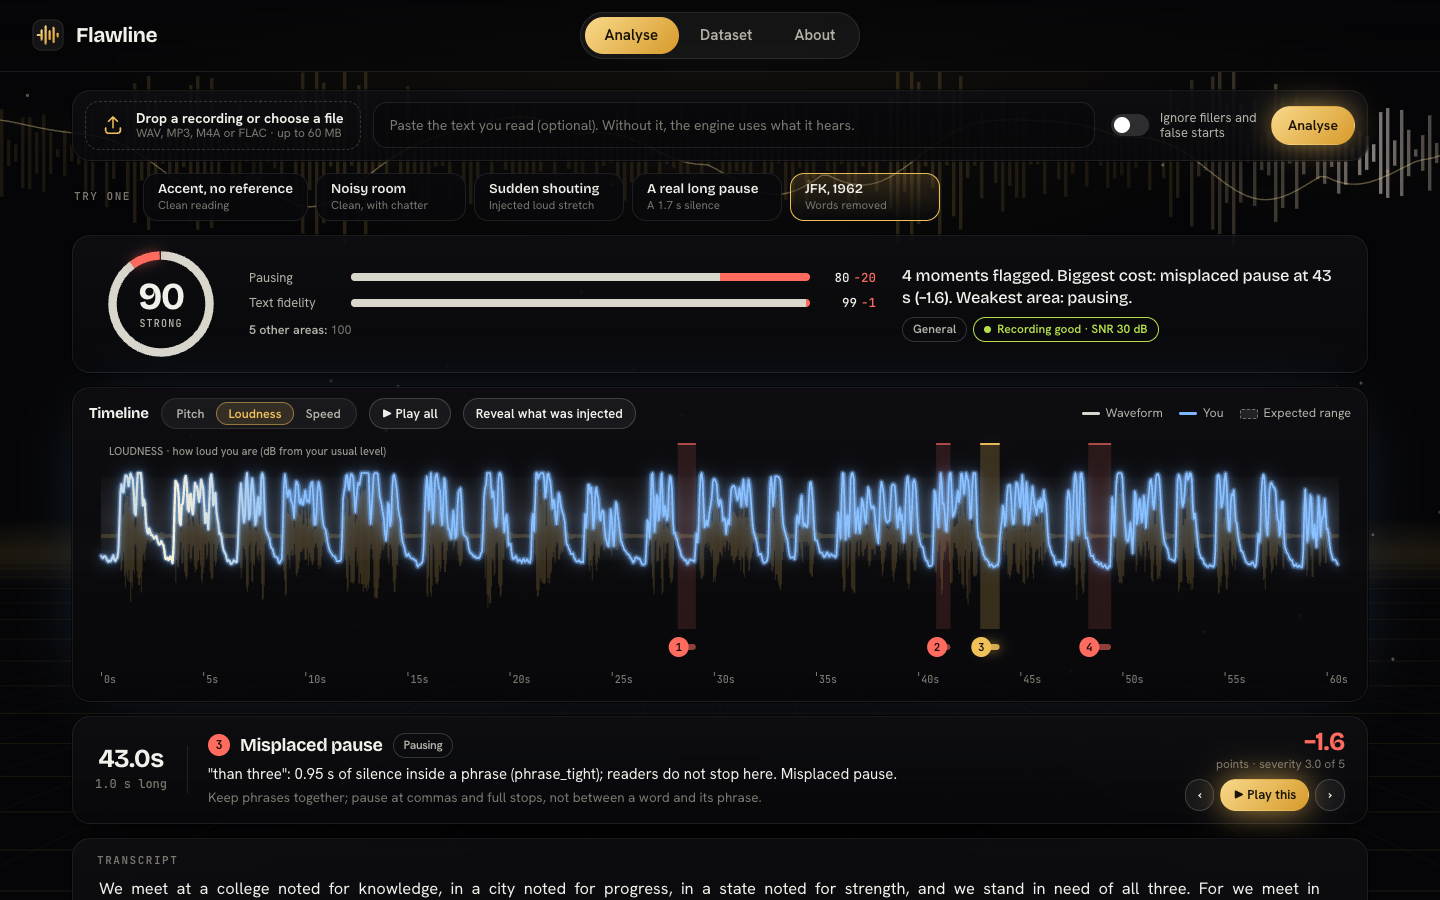
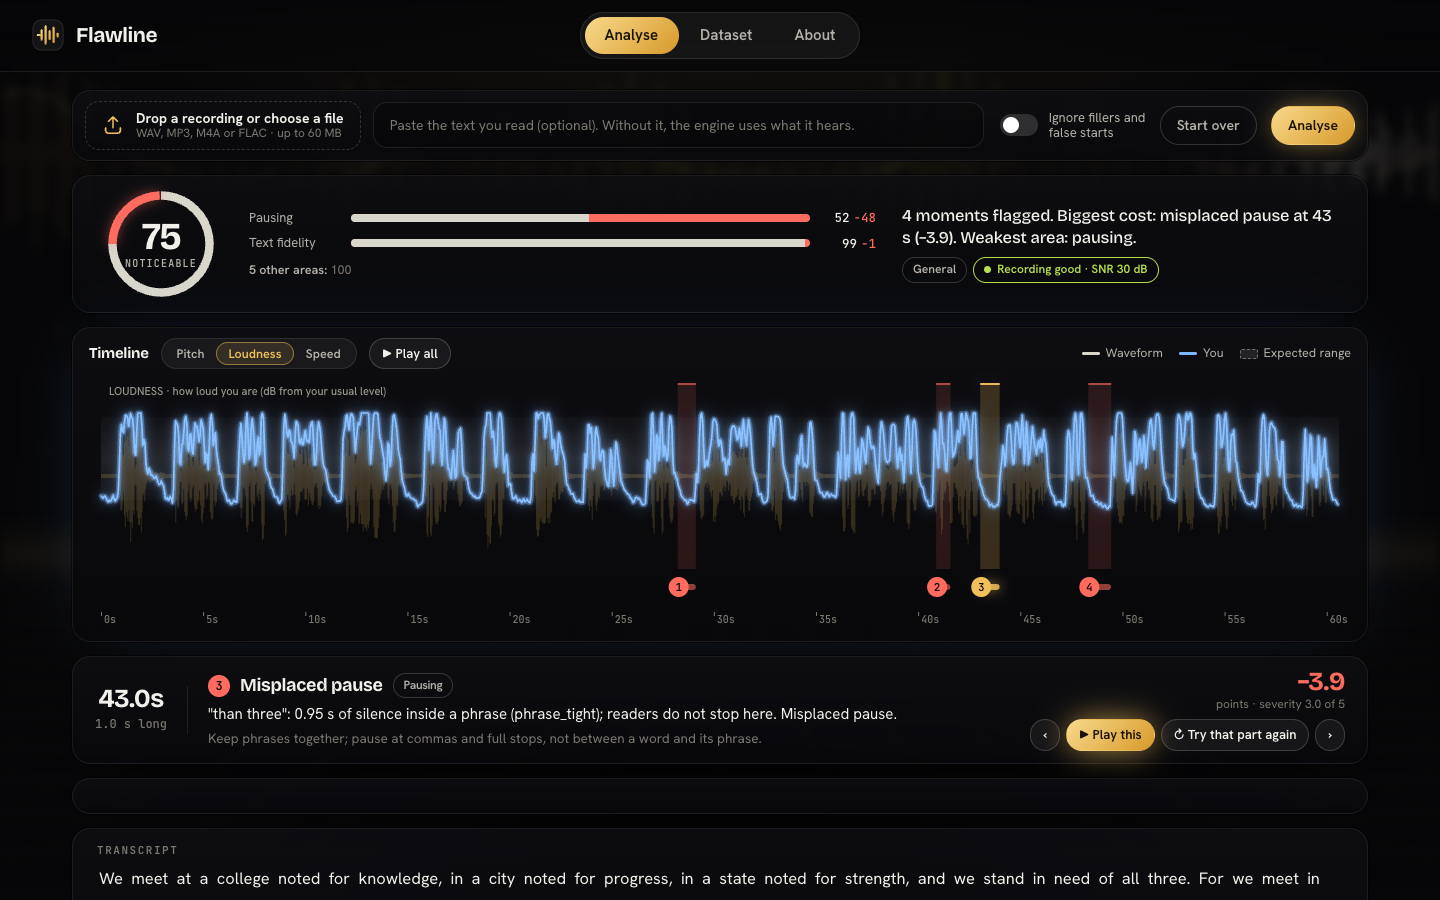
C: demo readiness checks, fresh screenshots, PROGRESS

diff --git a/PROGRESS.md b/PROGRESS.md
@@ -183,3 +183,11 @@ Added a physical test (flag only when the gap between the heard neighbours is to
 **B1 product name:** `app/brand.json` holds the product name and tagline (now "Flawline" / "Detect. Explain. Improve." — waiting for the final product name); the front end reads it from `/api/meta`, `scripts/apply_brand.py` writes the README headline. "Flawline" stays the dataset/benchmark name.
 **B2 "Try that part again" (working):** each flaw card has a button; the browser records the retake (MediaRecorder → 16 kHz WAV), the server (`app/retake.py`) scores only that phrase with one feature: speaking rate (pace), longest internal pause / pause after the last word (pauses), loudness drop start→end (fade), loudest words above the rest of the phrase (shout), consonant brightness (slur), pitch range (monotone), filler count (filler), words matched (skip/swap/repeat). The first attempt is measured the same way from the original recording; expected range comes from unflagged 8-word windows of the same reading. Points after = points before × (distance still outside the range / distance of the first attempt), 0 inside the range. Attempts stay in the session, each playable. Check with the clean take's phrase standing in for a retake: SHOUT 9.7 → −2.0 dB (range ≤ 5.0), FADE 10.4 → 2.0 (≤ 5.5), PACE_SLOW 3.17 → 3.83 syll/s (3.2–4.5), SLUR, MONOTONE 1.24 → 3.39 st (≥ 2.3): all inside, points → 0; WORD_SKIP 60% → 80% words (needs ≥ 85%) stays outside, 1.38 → 0.59. A real-microphone run is part of C3.
 **B3 tips:** every flaw card, the on-screen table and the downloadable report show the coaching tip; the report now has score, band, areas, every flag with explanation and tip.
+
+## 7 Oct night — Part C (demo readiness)
+- C1 `make app` from a fresh terminal: starts clean, no server-log errors, no browser console errors across the whole run below.
+- C2 All 5 examples load and analyse (Accent/no reference 100, Noisy room 100, Sudden shouting 59, Long pause 80, JFK 75). All 8 "Hear a pair" pairs return both audio files (about 2 MB each).
+- C3 Uploads with a pasted transcript: WAV and M4A (made from a clean take with ffmpeg; no MacBook microphone recording was available to the assistant, so a real MacBook file still needs one run by hand). A cold analysis of a 62 s M4A took 10.8 s (ASR included, model already loaded); with the ASR result cached, 0.5 s. First analysis after starting the app also loads the recogniser (a few seconds more).
+- C4 The downloaded report has the score, band, summary, every flag with explanation and tip.
+- C5 Fresh 1440×900 screenshots in `docs/screenshots/` (home, five analyse views, upload, dataset, about, plus `label_clip.png`, `retake_open.png`).
+- Human reference set: no real raters yet, so the About human tile and the README numbers are empty by design; they fill in from `results/human_agreement.json` once labels exist.
